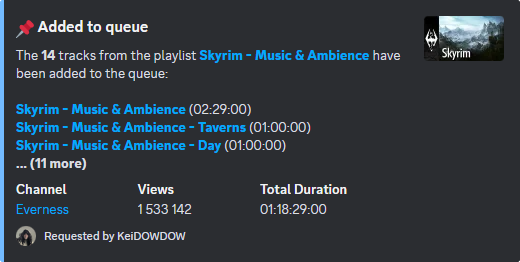
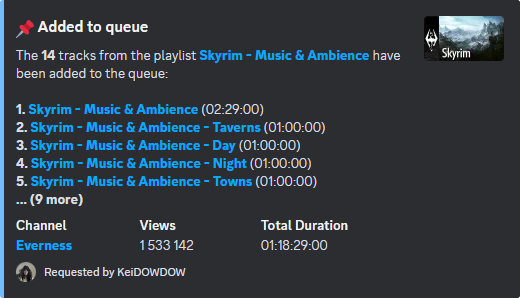
Edited the !skip command and some adjustments

diff --git a/cogs/general.py b/cogs/general.py
@@ -15,9 +15,9 @@ class General(commands.Cog):
 
     @commands.command()
     @voice_check()
-    async def skip(self, ctx: commands.Context, number: int = 0):
+    async def skip(self, ctx: commands.Context, number: int = 1):
         """
-        Skips to the next song, or a specified number of songs from the queue.
+        Skips the current song, or all songs up to the specified one if a number is provided.
         """
 
         # Retrieve the bot's voice client and the guild's music data
@@ -29,23 +29,26 @@ class General(commands.Cog):
             # Retrieve the guild's queue
             queue: list[dict] = data["queue"]
 
-            # Check if a skip number is provided
-            if number:
-                # Validate that the number is within the queue length
-                if number >= 1 and number <= len(queue):
+            # Check if a skip number is provided (not equal to 1)
+            if number != 1:
+                # Validate that the number is valid
+                if number >= 2 and number <= len(queue):
                     removed = []
 
                     # Remove the specified number of songs from the queue
-                    for _ in range(number):
+                    for _ in range(number - 1):
                         removed.append(queue.pop(0))
 
                     # Create a success embed
                     embed = get_base_embed("⏭ Skipped")
-                    embed.description = "Skipped **{}** song{} from the queue:\n\n".format(number, "s" if number > 1 else "")
+                    embed.description = "Skipped **{}** song{} from the queue:\n\n".format(number - 1, "s" if (number - 1) > 1 else "")
 
                     # Format removed songs for the embed message
-                    for i in range(len(removed)):
+                    for i in range(min(10, len(removed))):
                         embed.description += "**{}.** {}\n".format(i + 1, get_inline_details(removed[i]))
+
+                    if len(removed) > 10:
+                        embed.description += "**... ({} more)**".format(len(removed) - 10)
 
                     # Calculate total skipped duration
                     removed_duration = sum(s["duration"] for s in removed if s["duration"])

diff --git a/cogs/play.py b/cogs/play.py
@@ -100,13 +100,13 @@ class Play(commands.Cog):
                             "context": ctx
                         }
 
-                        if i < 3:
-                            preview += "{}\n".format(get_inline_details(song, author=False))
+                        if i < 5:
+                            preview += "**{}.** {}\n".format(i + 1, get_inline_details(song, author=False))
 
                         songs.append(song)
 
-                    if len(songs) > 3:
-                        preview += "**... ({} more)**".format(len(songs) - 3)
+                    if len(songs) > 5:
+                        preview += "**... ({} more)**".format(len(songs) - 5)
 
                     # Add all songs to the queue
                     queue.extend(songs)

diff --git a/cogs/help.py b/cogs/help.py
@@ -22,7 +22,7 @@ class Help(commands.Cog):
 
         # Add commands related to playback
         embed.add_field(name="**!play <search|url>**", value="Plays a song/playlist or adds it to the queue.", inline=False)
-        embed.add_field(name="**!skip [number]**", value="Skips to the next song, or a specified number of songs from the queue.", inline=False)
+        embed.add_field(name="**!skip [number]**", value="Skips the current song, or all songs up to the specified one if a number is provided.", inline=False)
         embed.add_field(name="**!playing**", value="Shows the currently playing song.", inline=False)
 
         # Add commands related to queue management

diff --git a/utils/embeds.py b/utils/embeds.py
@@ -80,7 +80,7 @@ def get_media_embed(media: dict, message_type: int) -> discord.Embed:
 
     # Add the channel name and link if available
     if media["channel"] and media["channel_url"]:
-        embed.add_field(name="Channel", value="[{}]({})".format(media["channel"], media["channel_url"]))
+        embed.add_field(name="Channel", value="[**{}**]({})".format(media["channel"], media["channel_url"]))
 
     # Add view count if available
     if media["view_count"]:

diff --git a/README.md b/README.md
@@ -43,6 +43,12 @@ directly in your voice channels.
 
     ![screen3](screenshots/screen3.png)
 
+  - **Skipping multiple songs**
+
+    `!skip 31`
+
+    ![screen4](screenshots/screen4.png)
+
 </details>
 
 ---
